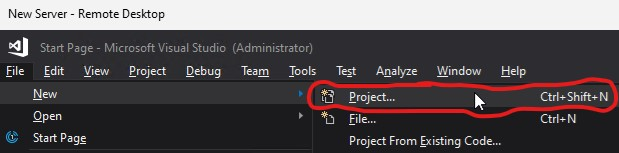
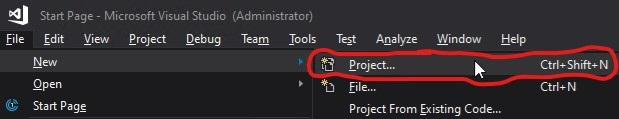
Modify image.

diff --git a/blog/2023/12/12/05/59/book-info-20231212-0559.php b/blog/2023/12/12/05/59/book-info-20231212-0559.php
@@ -1,4 +1,4 @@
 <?php
   $index->content .= 
-           "<p>I used <a href=\"includes/FuzzyGroupingExample.txt\">FuzzyGroupingExample.txt</a> to create my reference table. I opened Visual Studio and created a new project:</p><div><img src=\"/blog/2023/12/12/05/59/img/createNewProject.jpg\" alt=\"Create new project\" width=\"619\" height=\"153\"></div><p>I provided a name and location for my new project:</p><div><img src=\"/blog/2023/12/12/05/59/img/provideNameAndLocationForNewProject.jpg\" alt=\"Provide name and location for new project\" width=\"939\" height=\"649\"></div><p>I created a <span class=\"cod\">Data Flow Task</span>:</p><div><img src=\"/blog/2023/12/12/05/59/img/createDataFlowTask.jpg\" alt=\"Create Data Flow Task\" width=\"732\" height=\"305\"></div><p>I right-clicked the <span class=\"cod\">Connection Managers</span> area and then clicked <span class=\"cod\">New Flat File Connection...</span></p><div><img src=\"/blog/2023/12/12/05/59/img/createNewFlatFileConnection.jpg\" alt=\"Create New Flat File Connection\" width=\"1042\" height=\"732\"></div><div>Published: 5:59 AM GMT · Dec 12, 2023</div>\n";
+           "<p>I used <a href=\"includes/FuzzyGroupingExample.txt\">FuzzyGroupingExample.txt</a> to create my reference table. I opened Visual Studio and created a new project:</p><div><img src=\"/blog/2023/12/12/05/59/img/createNewProject.jpg\" alt=\"Create new project\" width=\"619\" height=\"119\"></div><p>I provided a name and location for my new project:</p><div><img src=\"/blog/2023/12/12/05/59/img/provideNameAndLocationForNewProject.jpg\" alt=\"Provide name and location for new project\" width=\"939\" height=\"649\"></div><p>I created a <span class=\"cod\">Data Flow Task</span>:</p><div><img src=\"/blog/2023/12/12/05/59/img/createDataFlowTask.jpg\" alt=\"Create Data Flow Task\" width=\"732\" height=\"305\"></div><p>I right-clicked the <span class=\"cod\">Connection Managers</span> area and then clicked <span class=\"cod\">New Flat File Connection...</span></p><div><img src=\"/blog/2023/12/12/05/59/img/createNewFlatFileConnection.jpg\" alt=\"Create New Flat File Connection\" width=\"1042\" height=\"732\"></div><div>Published: 5:59 AM GMT · Dec 12, 2023</div>\n";
 ?>
